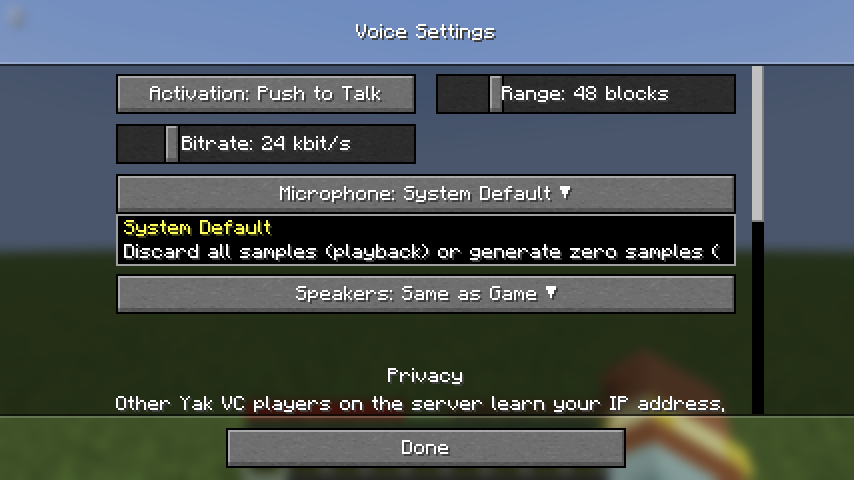
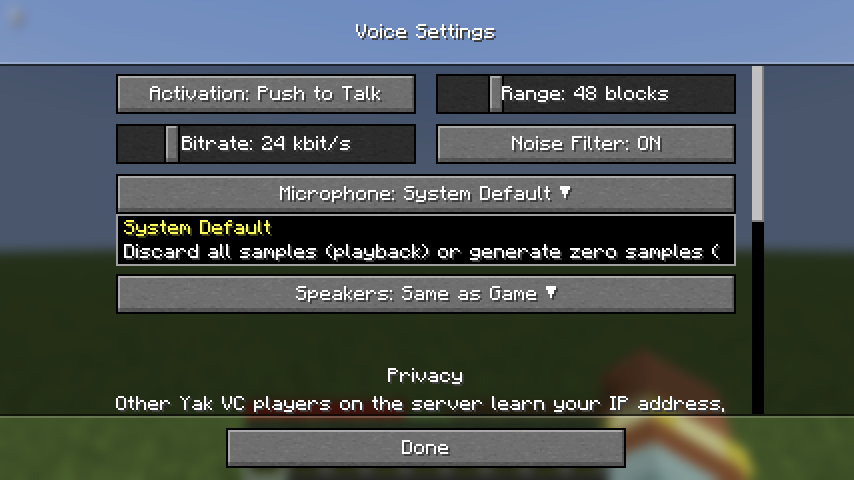
Add a Noise Filter toggle to the settings
The engine already had noise_suppression, applied live, but only in
client.toml. RNNoise can make some voices choppy or robotic, and a clean
microphone doesn't need it, so the microphone settings now offer it beside
the bitrate.

Changed region(s): [[0.4871, 0.25, 0.8829, 0.3438]]

diff --git a/mod/src/main/java/io/github/desocketed/yakvc/ui/VoiceSettingsScreen.java b/mod/src/main/java/io/github/desocketed/yakvc/ui/VoiceSettingsScreen.java
@@ -37,6 +37,7 @@ public final class VoiceSettingsScreen extends OptionsSubScreen {
 	private final OptionInstance<String> activation;
 	private final OptionInstance<Integer> range;
 	private final OptionInstance<Integer> bitrateKbps;
+	private final OptionInstance<Boolean> noiseSuppression;
 	private final Dropdown inputDevice;
 	private final Dropdown outputDevice;
 	/** The device names, once listed: the listing runs on a worker thread while the screen shows "Loading…". */
@@ -79,6 +80,9 @@ public final class VoiceSettingsScreen extends OptionsSubScreen {
 				OptionInstance.cachedConstantTooltip(Component.translatable("yakvc.settings.bitrate.tooltip")),
 				(caption, value) -> Options.genericValueLabel(caption, Component.translatable("yakvc.settings.bitrate.kbps", value)),
 				new OptionInstance.IntRange(16, 64), Math.clamp(initial.bitrate() / 1000, 16, 64), OptionInstance.NO_ACTION);
+		noiseSuppression = OptionInstance.createBoolean("yakvc.settings.noise_suppression",
+				OptionInstance.cachedConstantTooltip(Component.translatable("yakvc.settings.noise_suppression.tooltip")),
+				initial.noiseSuppression());
 		inputDevice = device("yakvc.settings.input_device", true, initial.inputDevice(),
 				"yakvc.settings.input_device.default");
 		outputDevice = device("yakvc.settings.output_device", false, initial.outputDevice(),
@@ -181,7 +185,7 @@ public final class VoiceSettingsScreen extends OptionsSubScreen {
 	@Override
 	protected void addOptions() {
 		list.addSmall(activation, range);
-		list.addSmall(bitrateKbps);
+		list.addSmall(bitrateKbps, noiseSuppression);
 		list.addBig(inputDevice);
 		list.addBig(new MicLevelMeter(feeder::micLevelDb, initial.vadThresholdDb()));
 		list.addBig(outputDevice);
@@ -276,6 +280,9 @@ public final class VoiceSettingsScreen extends OptionsSubScreen {
 		// In kbps: a hand-edited bitrate that isn't a whole kbps would otherwise be rewritten on every close.
 		if (bitrateKbps.get() != initial.bitrate() / 1000) {
 			changed = changed.with("audio", "bitrate", String.valueOf(bitrateKbps.get() * 1000));
+		}
+		if (noiseSuppression.get() != initial.noiseSuppression()) {
+			changed = changed.with("audio", "noise_suppression", String.valueOf(noiseSuppression.get()));
 		}
 		if (!inputDevice.get().equals(Objects.requireNonNullElse(initial.inputDevice(), DEFAULT_DEVICE))) {
 			changed = changed.with("audio", "input_device", deviceValue(inputDevice.get()));

diff --git a/mod/src/main/java/io/github/desocketed/yakvc/config/ClientConfig.java b/mod/src/main/java/io/github/desocketed/yakvc/config/ClientConfig.java
@@ -60,6 +60,10 @@ public record ClientConfig(String toml) {
 		return number(value("", "voice_range"), 48);
 	}
 
+	public boolean noiseSuppression() {
+		return bool(value("audio", "noise_suppression"), true);
+	}
+
 	public boolean voiceActivation() {
 		return "voice".equals(string(value("audio", "activation")));
 	}

diff --git a/docs/DESIGN.md b/docs/DESIGN.md
@@ -417,7 +417,7 @@ Names below use Mojang's official mappings, which Fabric uses from 26.1 on (Mine
 | `GameStateFeeder` | On `END_CLIENT_TICK`: the identity (see `VoiceSession`); listener pose from the camera; tracked players from `level.players()`, minus spectators; tab-list diff from `getOnlinePlayers()`; local spectator state as an input flag; players blocked in Social Interactions (`PlayerSocialManager.isBlocked(UUID)`, checked once a second) are muted and also left out of the world snapshot, so no voice flows either way (`mute_blocked_players`); per-player volume and mute changes; the Voice volume as `getFinalSoundSourceVolume(VOICE)`, i.e. Voice × Master; the game's sound device; push to native; then drain events and answer joins. Each step runs on its own, so one failing call can't skip the rest; a value the engine rejects is not resent until it changes. An engine panic disables voice and destroys the engine |
 | `SessionJoiner` | Handles `JoinRequest` events on a virtual thread via authlib's `SessionService.joinServer` (see authentication step 5). It tracks the game's login window itself, from `ClientLoginConnectionEvents.INIT` until `ClientConfigurationConnectionEvents.INIT` or login `DISCONNECT` (a `VoiceSession` only exists after login), and refuses inside it; the engine's auth backoff retries from 10 s. A login that starts while a voice join is in flight waits for it, up to 5 s, except for a local server (singleplayer or LAN host, `Minecraft.isLocalServer()`), where the game never calls `joinServer` over its memory connection: `ClientLoginConnectionEvents.INIT` fires before the game sends its hello, so the game's own `joinServer` lands last. Any `AuthenticationException` (unreachable, invalid credentials, banned) means `ok = false`. The access token stays inside authlib and is never logged. The result goes back through `GameStateFeeder`, which calls `completeJoin` on the client thread |
 | `input` | Keybinds via `KeyMappingHelper`: push-to-talk (default `V`, unused by vanilla; 26.3 uses SDL scancodes, `InputConstants.KEY_V`); mute, deafen and open voice menu are unbound by default to avoid clashing with minimap and utility mods; the pause menu gets a microphone button next to "Back to Game" (`ScreenEvents.AFTER_INIT`, placed from that button's position) that opens the voice menu. Settings are reached from a "Voice Chat…" row added to vanilla's Music & Sounds options (Fabric `ScreenEvents.AFTER_INIT` appends it to the screen's `OptionsList`, no mixin), from the voice menu, or from Mod Menu's config button when Mod Menu is installed (an optional compile-only dependency; Mod Menu is on the dev and gametest runtime classpath only, and the gametest clicks through its real config button) |
-| `ui` | `VoiceMenuScreen`: voice status, one row per online player (face, connection state, talking icon, 0–200 % volume, mute), and mute mic, deafen, groups and settings buttons; the first time it opens, a setup card at the top offers who may invite you to a group and the activation mode, and dismissing it sets `setup_done` in the mod config (a modpack can ship that set); `GroupsScreen`: public groups and our own as boxes of member faces with the optional label, join, leave, public or private, and the label; `GroupChat` puts invites in chat and other members' changes in toasts; `VoiceKeys` adds Group (B: invite or accept the player looked at); verified players get a check-mark badge after their name (icon-font `U+E004`), also shown beside the talking indicator. `VoiceSettingsScreen`: an Account section with your own state (verified, unverified or not connected) and the "Only Verified Players" toggle (`verified_only`); activation (push to talk or voice), range, bitrate, input and output devices from `yakvc_list_devices`, listed once per open on a worker thread (`GameStateFeeder.listDevices`) with the pickers disabled and showing "Loading…" until the list lands on the client thread (that is the one engine call made off the client thread: it touches no engine state, the FFI last error is per thread, and `GameStateFeeder.close` holds a lock against it so destroy stays the last call), and a privacy section with the IP note, Group Invites (`invites`), relay-only (applies after a restart, because the engine builds its endpoint once), `respect_chat_restrictions` and `mute_blocked_players`. `TalkingIndicator` draws a speaker above talking players' name tags through `LevelRenderEvents.COLLECT_SUBMITS` and vanilla's `submitNameTag` (no mixin). The HUD shows mic and deafen icons, and the connection icon only when not registered, with text only when something is wrong; the mic turns grey with "No microphone" when no `MicLevel` has arrived for a second (#63). Icons are a small bitmap font (`assets/yakvc/font/icons.json`). `DebugOverlay` (key "Toggle Debug Overlay", unbound by default, or the Troubleshooting toggle in settings, not saved) draws an F3-style panel: rendezvous and ticket (time left in whole hours, then minutes in the last hour, #118), account, endpoint and our voice protocol version, devices, level, sending, effective bitrate, overruns and underruns, and per peer the path, its voice protocol version when it differs from ours (a peer on another Yak VC build, with which voice may not work; the handshake agrees on a version but the voice code speaks only its own), RTT, loss, late packets and jitter-buffer delay, from `yakvc_stats` polled 4 times a second while it is shown. `VoiceToasts` shows failures: unsupported platform, native load or ABI mismatch, engine start failure, engine panic, and rejected settings. `EngineErrorToasts` shows the engine's `Error` events (a device that can't open or stopped working, a failed sign-in) as toasts of their own, queued one after another rather than replacing each other (#116); each message shows at most once every 5 minutes (#63). Group notices have a toast slot of their own (5 s, a newer one replaces the older). The other toasts share one slot The settings offer only "everyone" and "nobody" for group invites; `invites = "friends"` and `friends_only` are set in client.toml alone. The menu status and the account line follow the live state while open; players.json is rewritten only when a volume or mute changed. |
+| `ui` | `VoiceMenuScreen`: voice status, one row per online player (face, connection state, talking icon, 0–200 % volume, mute), and mute mic, deafen, groups and settings buttons; the first time it opens, a setup card at the top offers who may invite you to a group and the activation mode, and dismissing it sets `setup_done` in the mod config (a modpack can ship that set); `GroupsScreen`: public groups and our own as boxes of member faces with the optional label, join, leave, public or private, and the label; `GroupChat` puts invites in chat and other members' changes in toasts; `VoiceKeys` adds Group (B: invite or accept the player looked at); verified players get a check-mark badge after their name (icon-font `U+E004`), also shown beside the talking indicator. `VoiceSettingsScreen`: an Account section with your own state (verified, unverified or not connected) and the "Only Verified Players" toggle (`verified_only`); activation (push to talk or voice), range, bitrate, the noise filter (`noise_suppression`), input and output devices from `yakvc_list_devices`, listed once per open on a worker thread (`GameStateFeeder.listDevices`) with the pickers disabled and showing "Loading…" until the list lands on the client thread (that is the one engine call made off the client thread: it touches no engine state, the FFI last error is per thread, and `GameStateFeeder.close` holds a lock against it so destroy stays the last call), and a privacy section with the IP note, Group Invites (`invites`), relay-only (applies after a restart, because the engine builds its endpoint once), `respect_chat_restrictions` and `mute_blocked_players`. `TalkingIndicator` draws a speaker above talking players' name tags through `LevelRenderEvents.COLLECT_SUBMITS` and vanilla's `submitNameTag` (no mixin). The HUD shows mic and deafen icons, and the connection icon only when not registered, with text only when something is wrong; the mic turns grey with "No microphone" when no `MicLevel` has arrived for a second (#63). Icons are a small bitmap font (`assets/yakvc/font/icons.json`). `DebugOverlay` (key "Toggle Debug Overlay", unbound by default, or the Troubleshooting toggle in settings, not saved) draws an F3-style panel: rendezvous and ticket (time left in whole hours, then minutes in the last hour, #118), account, endpoint and our voice protocol version, devices, level, sending, effective bitrate, overruns and underruns, and per peer the path, its voice protocol version when it differs from ours (a peer on another Yak VC build, with which voice may not work; the handshake agrees on a version but the voice code speaks only its own), RTT, loss, late packets and jitter-buffer delay, from `yakvc_stats` polled 4 times a second while it is shown. `VoiceToasts` shows failures: unsupported platform, native load or ABI mismatch, engine start failure, engine panic, and rejected settings. `EngineErrorToasts` shows the engine's `Error` events (a device that can't open or stopped working, a failed sign-in) as toasts of their own, queued one after another rather than replacing each other (#116); each message shows at most once every 5 minutes (#63). Group notices have a toast slot of their own (5 s, a newer one replaces the older). The other toasts share one slot The settings offer only "everyone" and "nobody" for group invites; `invites = "friends"` and `friends_only` are set in client.toml alone. The menu status and the account line follow the live state while open; players.json is rewritten only when a volume or mute changed. |
 | `config` | TOML in `config/yakvc/client.toml`, passed to native as a string. Includes `respect_chat_restrictions` and `mute_blocked_players`, both default `true` and both can be turned off, and `verified_only` (default `false`), and `invites` (default `"everyone"`). The mod-only `setup_done` records that the voice menu's first-run card was dismissed; a modpack can ship it set. A commented default is written on first run; Java edits the keys its settings screen owns line by line, without a TOML library, so comments and other keys survive; the edited text goes through `yakvc_update_config` and is saved only if the engine accepts it. The settings screen picks the microphone and speakers from dropdown lists and shows a live microphone level meter, fed by the `MicLevel` event the engine sends whenever the microphone delivers audio, with `vad_threshold_db` marked on it. Per-player volume and mute are kept by UUID in `config/yakvc/players.json`. Both files are written atomically (a temporary file, then an atomic move), so a crash mid-save leaves the old contents (#68); entries are checked one by one on load, bad ones are dropped with a warning and volumes are clamped to 0–2 (the menu's range). A `[dev]` section (needs `dev_mode`) gives test audio instead of devices: `tone_hz` uses a tone source and `null_output` a null sink, for headless runs |
 
 Fabric API events are preferred over mixins; the target is zero mixins in v1 (M4 has none).

diff --git a/docs/USER_GUIDE.md b/docs/USER_GUIDE.md
@@ -140,6 +140,7 @@ Open the settings from **Options → Music & Sounds → Voice Chat…**, at the 
 - **Activation**: *Push to Talk* sends your voice only while you hold the key. *Voice* sends it whenever the microphone hears you speak.
 - **Range**: how far away players can hear you and you can hear them, from 1 to 256 blocks (48 by default). Between two players, the shorter of their ranges applies.
 - **Bitrate**: the sound quality of your voice, from 16 to 64 kbit/s. Higher sounds better and uses more data; 24 kbit/s is plenty for speech.
+- **Noise Filter**: filters fans, hum and room noise out of your microphone. On by default; turn it off if it makes your voice sound choppy or robotic, or if your microphone is already clean.
 - **Microphone**: which microphone to use. Click it for a list of your microphones and pick one; scroll the list if it is long. *System Default* follows your system's setting.
 - **Microphone Level**: shows live how loud your microphone hears you, so you can check it works without joining a world or holding the talk key. The bar turns green above the white mark, the level at which *Voice* activation starts sending (`vad_threshold_db` in the [config file](#the-config-file)). It shows the microphone in use, so after picking another one, leave and reopen the settings to see it.
 - **Speakers**: where voices play. Click it to pick from a list, like the microphone. *Same as Game* uses the game's sound device (Options → Music & Sounds → Device).
@@ -226,6 +227,7 @@ The keys that the settings screen shows:
 | `invites` | `"everyone"` | Group Invites (`"everyone"`, `"friends"` or `"nobody"`) |
 | `[audio]` `activation` | `"push_to_talk"` | Activation (`"push_to_talk"` or `"voice"`) |
 | `[audio]` `bitrate` | `24000` | Bitrate, in bits per second |
+| `[audio]` `noise_suppression` | `true` | Noise Filter |
 | `[audio]` `input_device` | unset | Microphone, by device id |
 | `[audio]` `output_device` | unset | Speakers, by device id |
 
@@ -235,7 +237,6 @@ A few more are only in the file:
 | --- | --- | --- |
 | `friends_only` | unset | A list of player UUIDs, like `["11111111-2222-3333-4444-555555555555"]`. When set, you hear and talk to only these players. |
 | `setup_done` | `false` | Set once the voice menu's first-run card is dismissed, so it shows only once. |
-| `[audio]` `noise_suppression` | `true` | Filters background noise out of your microphone. |
 | `[audio]` `input_gain` | `1.0` | Microphone volume, from 0 to 10. |
 | `[audio]` `vad_threshold_db` | `-45.0` | How loud you must be for *Voice* activation to send, from -100 (everything) to 0 (very loud only). |
 | `[rendezvous]` | the Yak VC server | Another voice server, for those who [run their own](../deploy/README.md). |
